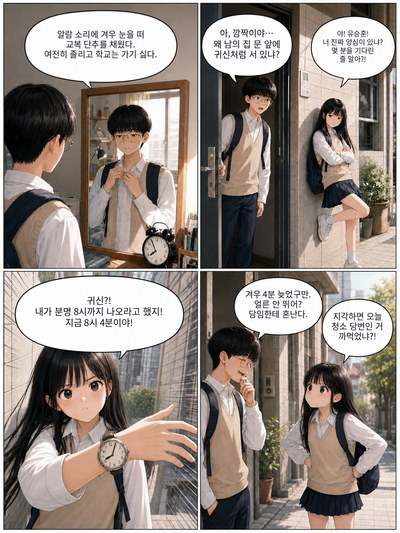
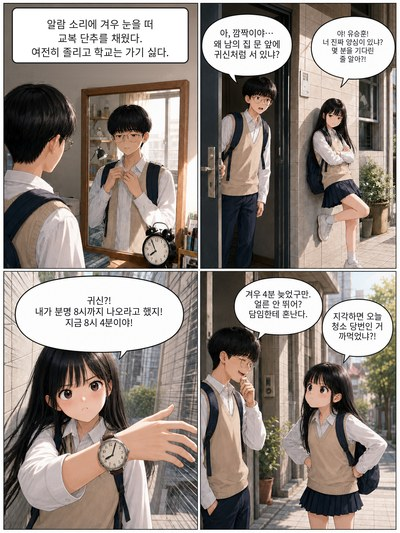
comic: p01 나레이션 박스로 교체(말풍선 제거)·p15 애니 셀셰이딩 그림체로 재생성 — rev 9

Changed region(s): [[0.03, 0.0, 0.48, 0.1801]]

diff --git a/comic/index.html b/comic/index.html
@@ -407,7 +407,7 @@ const BUILTIN_BOOKS = [
     description: "아침 8시 4분, 지각 위기의 등굣길. 어릴 적부터 함께 걷던 두 사람의 하루가 시작된다.",
     cover: "images/cover.jpg",
     pages: [
-      {src:"images/p01.jpg?v=4", label:"1페이지", thumb:"images/thumbs/p01.jpg?v=4"},
+      {src:"images/p01.jpg?v=9", label:"1페이지", thumb:"images/thumbs/p01.jpg?v=9"},
       {src:"images/p02.jpg?v=4", label:"2페이지", thumb:"images/thumbs/p02.jpg?v=4"},
       {src:"images/p03.jpg?v=7", label:"3페이지", thumb:"images/thumbs/p03.jpg?v=7"},
       {src:"images/p04.jpg?v=7", label:"4페이지", thumb:"images/thumbs/p04.jpg?v=7"},
@@ -421,7 +421,7 @@ const BUILTIN_BOOKS = [
       {src:"images/p12.jpg?v=8", label:"12페이지", thumb:"images/thumbs/p12.jpg?v=8"},
       {src:"images/p13.jpg?v=8", label:"13페이지", thumb:"images/thumbs/p13.jpg?v=8"},
       {src:"images/p14.jpg?v=8", label:"14페이지", thumb:"images/thumbs/p14.jpg?v=8"},
-      {src:"images/p15.jpg?v=8", label:"15페이지", thumb:"images/thumbs/p15.jpg?v=8"},
+      {src:"images/p15.jpg?v=9", label:"15페이지", thumb:"images/thumbs/p15.jpg?v=9"},
       {src:"images/p16.jpg?v=8", label:"16페이지", thumb:"images/thumbs/p16.jpg?v=8"},
       {src:"images/p17.jpg?v=8", label:"17페이지", thumb:"images/thumbs/p17.jpg?v=8"},
       {src:"images/p18.jpg?v=8", label:"18페이지", thumb:"images/thumbs/p18.jpg?v=8"},
@@ -441,7 +441,7 @@ const BUILTIN_BOOKS = [
   },
 ];
 /* 내장책 내용이 바뀌면 rev를 올린다 → 예전 페이지 기준 독서 진행률은 자동으로 새로 시작 */
-const BUILTIN_REV = { "science-lab": 6 };
+const BUILTIN_REV = { "science-lab": 7 };
 function bookRev(b){ return b && b.builtin ? (BUILTIN_REV[b.id] || 0) : 0; }
 function getProg(b){
   if (!b) return 0;
